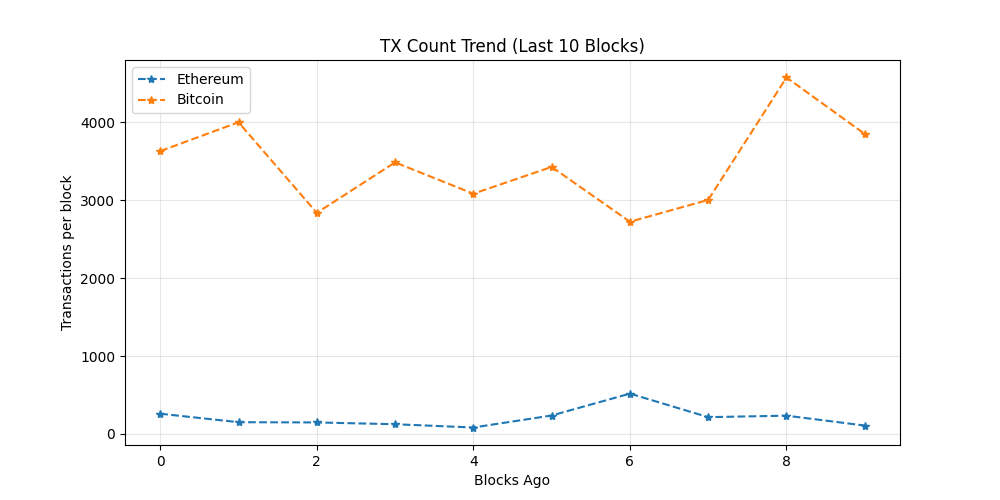
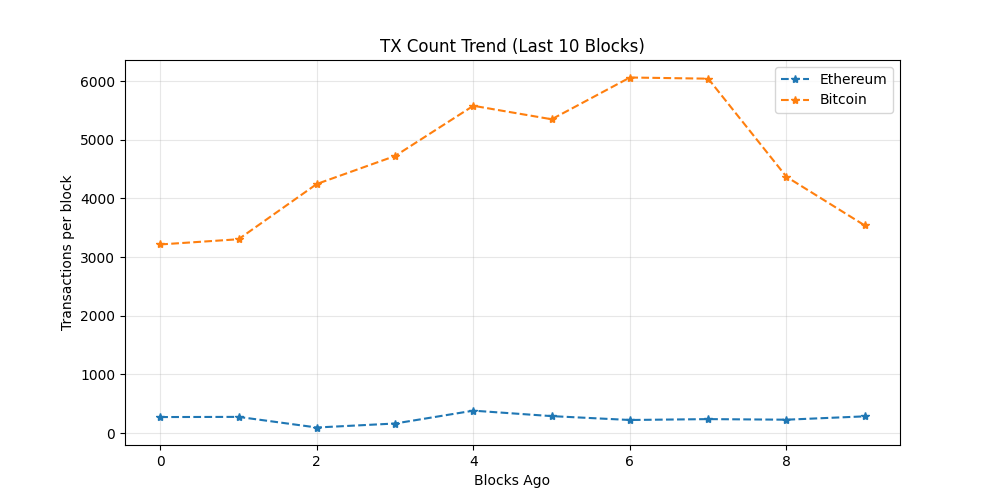
chore: update on-chain dashboard

diff --git a/README.md b/README.md
@@ -19,7 +19,7 @@ The README itself acts as the dashboard and is regenerated automatically on a 6 
 demonstrating a production-style, infrastructure-focused observability workflow rather
 than a traditional UI-driven approach.
 
-_Last updated: 2026-07-31 03:48 UTC_
+_Last updated: 2026-07-31 09:15 UTC_
 
 ## API Usage (GetBlock.io)
 - Calls used: **24**
@@ -27,8 +27,8 @@ _Last updated: 2026-07-31 03:48 UTC_
 ## Network Metrics
 | Chain | Block Height | TX Count | TPS (10 blk avg) | Block Util | Avg Fee |
 |------|-------------|----------|------------------|------------|---------|
-| Ethereum | 25650244 | 108 | 9.0 | 15.7% | 0.1 Gwei |
-| Bitcoin | 960341 | 3852 | 5.34 | 99.8% | N/A |
+| Ethereum | 25651876 | 285 | 23.75 | 47.21% | 0.2 Gwei |
+| Bitcoin | 960376 | 3539 | 8.19 | 99.8% | N/A |
 
 ## Visuals
 ### Transactions Trend
@@ -43,11 +43,11 @@ _Last updated: 2026-07-31 03:48 UTC_
 ## Whale Alerts (latest block)
 - Transaction hashes are truncated for readability.
 - Full hashes are available in `dashboards/metrics.json`
-- Bitcoin | 1142.77 BTC | `e662995372d7…`
-- Bitcoin | 139.3 BTC | `250b1b91a604…`
-- Bitcoin | 101.46 BTC | `b67b02f5ec5e…`
-- Bitcoin | 618.9 BTC | `53afa6eb348f…`
-- Bitcoin | 380.89 BTC | `c460ba67cbf4…`
+- Bitcoin | 228.25 BTC | `69ecd3ec7ec2…`
+- Bitcoin | 110.5 BTC | `b9dd2c2b4dcc…`
+- Bitcoin | 460.83 BTC | `ba200bf07002…`
+- Bitcoin | 107.45 BTC | `95438d02072a…`
+- Bitcoin | 186.56 BTC | `410476a4a1d0…`
 
 ## Run locally
 
